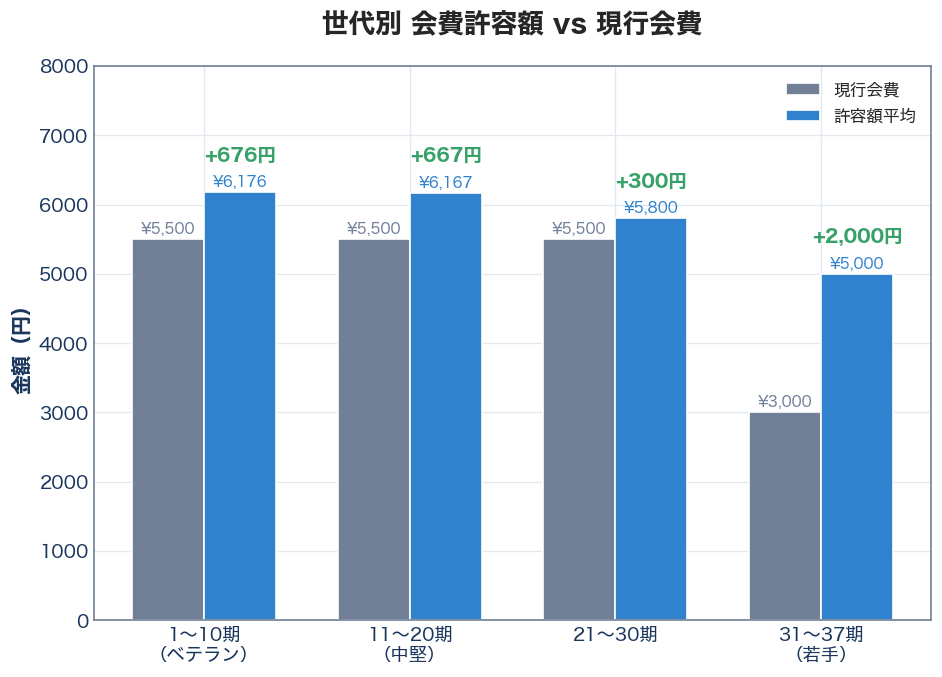
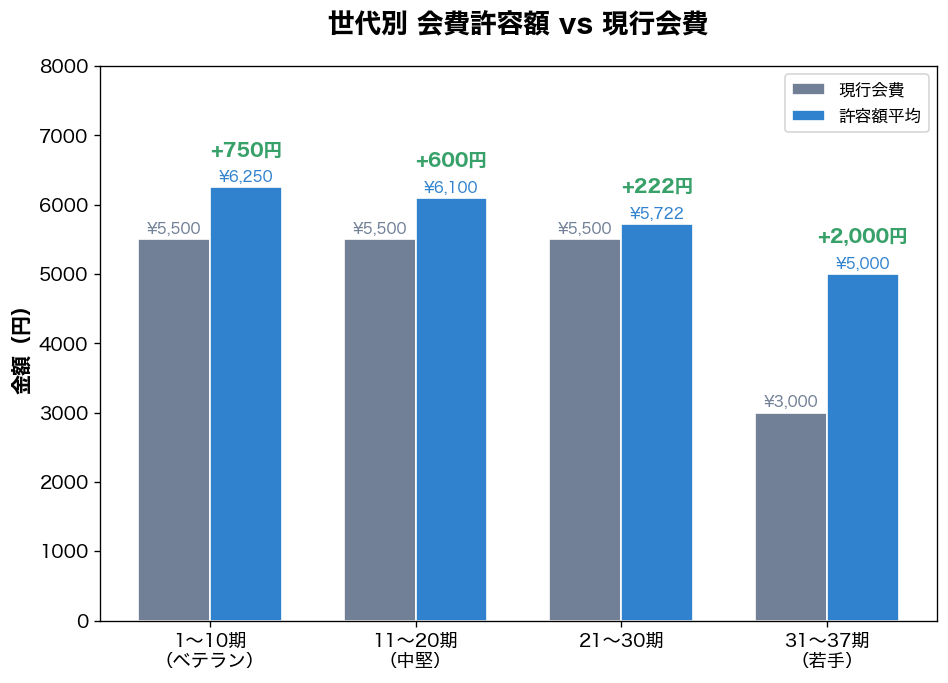
fix: 会費許容額グラフのデータを正確な値に修正
許容額データを正しい値に更新:
- 1〜10期: 6,176円 → 6,250円
- 11〜20期: 6,167円 → 6,100円
- 21〜30期: 5,800円 → 5,722円

diff --git a/scripts/generate_charts_integrated.py b/scripts/generate_charts_integrated.py
@@ -942,7 +942,7 @@ def chart_fee_tolerance(df):
 
     generations = ['1〜10期\n（ベテラン）', '11〜20期\n（中堅）', '21〜30期', '31〜37期\n（若手）']
     current_fee = [5500, 5500, 5500, 3000]
-    tolerance = [6176, 6167, 5800, 5000]  # デフォルト値
+    tolerance = [6250, 6100, 5722, 5000]  # 正確なデータ
 
     fig, ax = plt.subplots(figsize=(9, 6))
 

diff --git a/scripts/generate_charts.py b/scripts/generate_charts.py
@@ -304,7 +304,7 @@ def chart_fee_tolerance():
     """会費許容額の世代別分布"""
     generations = ['1〜10期\n（ベテラン）', '11〜20期\n（中堅）', '21〜30期', '31〜37期\n（若手）']
     current_fee = [5500, 5500, 5500, 3000]
-    tolerance = [6176, 6167, 5800, 5000]
+    tolerance = [6250, 6100, 5722, 5000]
 
     fig, ax = plt.subplots(figsize=(9, 6))
 
